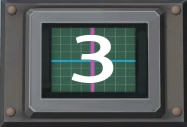
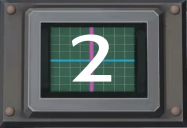
name changes for images so they work correctly

diff --git a/src/submod5.py b/src/submod5.py
@@ -170,7 +170,7 @@ class SubMod5(Module):
 				pass
 			else:
 				if self.init == 1:
-
+					self.init=0
 
 					self.symbolGen = randint(1,6)
 					self.posGen = randint(1,4)
@@ -301,56 +301,60 @@ class SubMod5(Module):
 							self.button2.setText('#')
 							self.button3.setText('?')
 				else:
-					if selectedButton == 1:
+					if self.selectedButton == 1:
 						if self.input == 'RIGHT':
-							self.selectedButton == 2
+							self.selectedButton = 2
 						if self.input == 'DOWN':
-							self.selectedButton == 3
+							self.selectedButton = 3
 						else:
 							pass
-					elif selectedButton == 2:
+					elif self.selectedButton == 2:
 						if self.input == 'LEFT':
-							self.selectedButton == 1
+							self.selectedButton = 1
 						if self.input == 'DOWN':
-							self.selectedButton == 4
+							self.selectedButton = 4
 						else:
 							pass
-					elif selectedButton == 3:
+					elif self.selectedButton == 3:
 						if self.input == 'RIGHT':
-							self.selectedButton == 4
+							self.selectedButton = 4
 						if self.input == 'UP':
-							self.selectedButton == 1
+							self.selectedButton = 1
 						else:
 							pass
-					elif selectedButton == 4:
+					elif self.selectedButton == 4:
 						if self.input == 'LEFT':
-							self.selectedButton == 3
+							self.selectedButton = 3
 						if self.input == 'UP':
-							self.selectedButton == 2
+							self.selectedButton = 2
 						else:
 							pass
 
+					
 					if self.selectedButton == 1:
-						if self.selectedButton == 1:
-							self.select1.setText(">")
-							self.select1.show()
-							self.select2.hide()
-							self.select3.hide()
-						elif self.selectedButton == 2:
-							self.select2.setText("<")
-							self.select2.show()
-							self.select1.hide()
-							self.select3.hide()
-						elif self.selectedButton == 3:
-							self.select3.show()
-							self.select3.setText(">")
-							self.select2.hide()
-							self.select1.hide()
-						elif self.selectedButton == 4:
-							self.select2.setText("<")
-							self.select2.show()
-							self.select1.hide()
-							self.select3.hide()
+						self.select1.setText(">")
+						self.select1.show()
+						self.select2.hide()
+						self.select3.hide()
+						self.select4.hide()
+					elif self.selectedButton == 2:
+						self.select2.setText("<")
+						self.select2.show()
+						self.select1.hide()
+						self.select3.hide()
+						self.select4.hide()
+					elif self.selectedButton == 3:
+						self.select4.hide()
+						self.select3.setText(">")
+						self.select3.show()
+						self.select2.hide()
+						self.select1.hide()
+					elif self.selectedButton == 4:
+						self.select4.setText("<")
+						self.select4.show()
+						self.select1.hide()
+						self.select2.hide()
+						self.select3.hide()
 
 					if self.input == 'BUTTONA':
 						if self.stage == 0:

diff --git a/src/submod3.py b/src/submod3.py
@@ -146,6 +146,7 @@ class SubMod3(Module):
 					
 				
 						if self.displayStage0 == 1:
+							print("pic1")
 							reader = QtGui.QImageReader("memoryDisp1.png")
 							image = reader.read()
 							qpixmap = QtGui.QPixmap()
@@ -153,6 +154,7 @@ class SubMod3(Module):
 							self.displayNum.setPixmap(qpixmap)
 						
 						elif self.displayStage0 == 2:
+							print("pic2")
 							reader = QtGui.QImageReader("memoryDisp2.png")
 							image = reader.read()
 							qpixmap = QtGui.QPixmap()
@@ -160,6 +162,7 @@ class SubMod3(Module):
 							self.displayNum.setPixmap(qpixmap)
 							
 						elif self.displayStage0 == 3:
+							print("pic3")
 							reader = QtGui.QImageReader("memoryDisp3.png")
 							image = reader.read()
 							qpixmap = QtGui.QPixmap()

diff --git a/src/gui.py b/src/gui.py
@@ -135,13 +135,13 @@ class MainGUI(QtWidgets.QMainWindow):
 		
 		modNum = 1
 		for mod in self.game.bomb.moduleList:
-			if modNum == 1
+			if modNum == 1:
 				self.grid.addWidget(mod,1, 1)
-			elif modNum == 2
+			elif modNum == 2:
 				self.grid.addWidget(mod,1, 2)
-			elif modNum == 3
+			elif modNum == 3:
 				self.grid.addWidget(mod,2, 1)	
-			elif modNum == 4
+			elif modNum == 4:
 				self.grid.addWidget(mod,2, 2)		
 			modNum += 1
 			#mod.hide()

diff --git a/src/bomb.py b/src/bomb.py
@@ -6,7 +6,7 @@ from submod0 import SubMod0
 from submod1 import SubMod1
 from submod2 import SubMod2
 from submod3 import SubMod3
-#from submod5 import SubMod5
+from submod5 import SubMod5
 import threading
 
 numModules = 4
@@ -56,7 +56,7 @@ class Bomb:
 		if(level == 0):
 			return SubMod0(self.frame)
 		elif level ==1:
-			return SubMod1(self.frame)
+			return SubMod5(self.frame)
 		elif level ==2:
 			return SubMod2(self.frame)
 		elif level ==3:

diff --git a/src/submod1.py b/src/submod1.py
@@ -20,7 +20,7 @@ class SubMod1(Module):
 				pass
 			else:
 				#Win if enter 1, strike otherwise.
-				if(self.input == '1'):
+				if(self.input == 'BUTTONA'):
 					self.changeStateComplete() 
 				#Other inputs cause strike
 				else:
